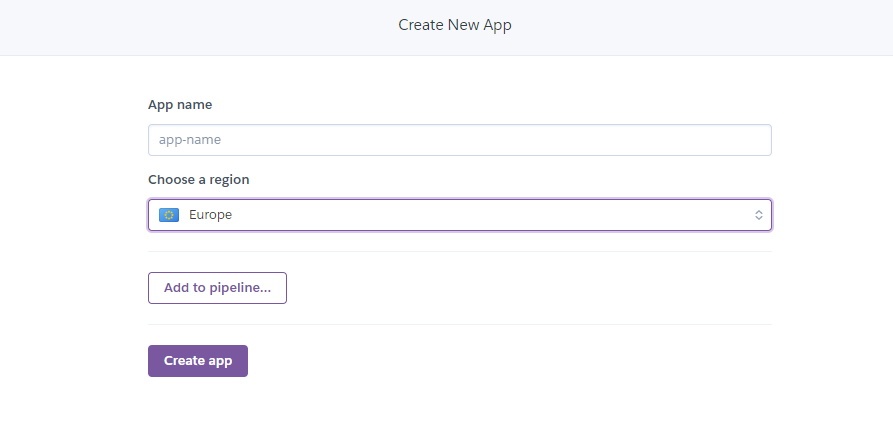
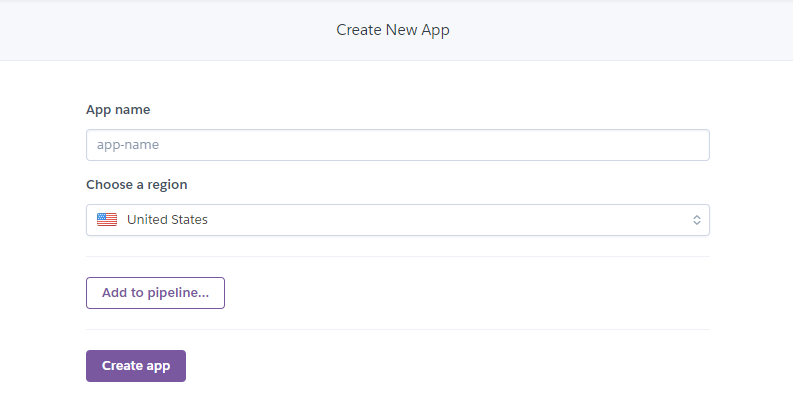
first1

diff --git a/README.md b/README.md
@@ -1,1 +1,99 @@
-# my-first-static-web-app
+# BÀI THU HOẠCH CHƯƠNG 4 - HỌC PHẦN : ĐIỆN TOÁN ĐÁM MÂY VÀ ỨNG DỤNG
+- Sinh viên thực hiện : Mai Thế Long
+- Mã sinh viên : 1821050722
+- Mục tiêu : Tạo ra một tài liệu hướng dẫn triển khai ứng dụng web trên nền tảng dịch vụ điện toán đám mây.
+## Giới thiệu
+**Heroku Web App** là một nền tảng đám mây cho phép các lập trình viên xây dựng, triển khai, quản lý và mở rộng ứng dụng (Paas - Platform as a service). Chúng ta có thể liên kết với tài khoản github để dễ dàng thay đổi thực hiện ngay trong **Github Actions**.
+Trong bài viết này tôi sẽ tạo ra một "tài liệu" hướng dẫn các bạn tiến hành xây dụng một ứng dụng web và triển khai nó theo giải pháp điện toán đám mây **Heroku**.
+
+Đây là ứng dụng mà tôi sẽ xây dựng trong bài viết này.
+
+![Homepage](./homepage.png)
+
+Sau khi xem xong "tài liệu" này thì bạn sẽ thực hiện được một số việc với Heroku.
+
+## Mở đầu
+Heroku cung cấp dịch vụ máy chủ đám mây giúp dễ dàng trong việc deploy ứng dụng. Điều tuyệt vời ở Heroku là trang này bạn có thể sử dụng dịch vụ hoàn toàn miễn phí với các ứng dụng web không yêu cầu phải có tốc độ truy câp dung lương lớn.
+Trong bài viết này chúng ta sẽ cùng làm với nhau 4 việc :
+- Tải Heroku CLI
+- Tạo một dự án trên Heroku
+- Cấu hình Git server repository cho phía local
+- Deploy ứng dụng
+
+## Điều kiện tiên quyết
+- Có tài khoản [GitHub](https://github.com/)
+- Có tài khoản [Heroku](https://dashboard.heroku.com/)
+- Môi trường viết mã [Visual Studio Code](https://code.visualstudio.com/)
+
+## Tải Heroku CLI
+Các bạn truy cập vào đường link [The Heroku CLI](https://devcenter.heroku.com/articles/heroku-cli) để tải Heroku CLI về máy. Chọn các phiên bản phù hợp với thiết bị của bạn. Có rất nhiều phiên bản để các bạn lựa chọn.
+
+![hình ảnh](./a1.png)
+
+
+## Tạo dự án trên Heroku
+Để tạo dự án trên *Heroku*, bạn cần tạo một tài khoản (hoàn toàn miễn phí) sau đó kích hoạt và đăng nhập vào địa chỉ [https://dashboard.heroku.com/](https://dashboard.heroku.com/). Sau khi đăng nhập vào địa chỉ này, bạn sẽ thấy một nút New dùng để tạo một dự án. Click vào sau đó chọn Create New App :
+
+![hình ảnh](./a2.png)
+
+Trong mục *App Name* chọn tên cho ứng dụng nếu bạn để trống thì Heroku sẽ chọn ngẫu nhiên một tên cho ứng dụng của bạn. Tiếp theo có hai lựa chọn để chọn vùng cho server Heroku sẽ host ứng dụng là Mỹ và Châu Âu. Với các ứng dụng ở Việt Nam tôi khuyên các bạn nên chọ khu vực *Europe* để có thể nâng cao tốc độ truy cập. Sau đó các bạn chọn *Create app*.
+
+![hình ảnh](./a3.png)
+
+## Tạo Git Repository trên máy Local
+Đầu tiên các bạn tải cho tôi phần mềm GIT để thuận tiện cho việc deploy ứng dụng web. Đường link để tải tôi sẽ để tại đây [ Click vào đây để download GIT về máy tính](https://git-scm.com/)
+
+Nếu bạn chưa có, hãy đăng nhập vào tài khoản Heroku của bạn và làm theo lời nhắc để tạo kháo công khai SSH mới :
+
+![hình ảnh](./b1.png)
+
+Bây giờ trên máy tính local, chúng ta cần khởi tạo Git local repository (hay local repo). Local repo giống như một cái kho, nơi chứa source code mà bạn sẽ dùng để phát triển ứng dụng. Trên terminal di chuyển tới thư mục ở máy tính của bạn và chạy câu lệnh sau :
+
+![hình ảnh](./b2.png)
+
+Câu lệnh này dùng để khởi tạo một dự án Git ở trên máy tính local. Tiếp theo chạy câu lệnh sau để xem trạng thái (status) của các file trên local repo này :
+
+![hình ảnh](./b3.png)
+Bạn sẽ thấy kết quả như sau :
+
+![hình ảnh](./a4.png)
+png
+Tiếp theo chạy câu lệnh sau để thêm tất cả các file có trong thư mục dự án vào Git :
+
+![hình ảnh](./b4.png)
+
+Chạy *git status* một lần nữa để kiểm tra trạng thái của các file. Lúc này bạn sẽ thấy Git đánh dấu các file vừa được thêm bằng màu khác với trước đó.
+Cuối cùng, chúng ta hãy tạo một commit đầu tiên sử dụng câu lệnh :
+
+![hình ảnh](./b5.png)
+
+Giải thích câu lệnh này, -m được sử dụng để tạo message cho commit. Message này thường là nội dung tóm tắt mô tả khi commit thay đổi những gì trong source code. Bạn có thể đặt bất cứ tên nào cũng được. Hãy đặt những massage đơn giản và dễ nhớ nhé.
+
+## Deploy ứng dụng
+
+Có thể có nhiều cách để Deploy ứng dụng lên Heroku nhưng có hai cách thông dụng và dễ thực hiện đó là sử dụng Heroku CLI như tôi vừa trình bày ở bên trên và một cách nữa là bạn có thể kết nối với Github rồi Deploy ứng dung web lên Heroku. Có một lời khuyên cho bạn là khi bạn mới bắt đầu triển khai ứng dụng lên dịch vụ điện toán đám mây - ở đây là Heroku thì bạn nên dùng cách thủ công đó là sử dụng Heroku CLI. Sau khi bạn đã Push được ứng dụng lên một cách thuận lợi thì từ những lầ sau bạn hãy thực hiện cách số hai là deploy thông qua liên kết với Github để đỡ nảy sinh nhiều bugs (lỗi thường gặp phải là sai nhánh Github).
+
+Chúng ta bắt đầu với cách deploy khi kết nối với Github bạn sẽ chọn kho lưu trữ (repositories) chứa source code mà bạn đã push lên Github rồi kết nối chúng với nhau :
+
+![hình ảnh](./i6.png)
+
+ Ở đây tôi đã kết nối thành công.
+
+Tiếp đến bạn cần chọn nhánh của Github để deploy sau đó chọn **Deploy Branch** để đưa ứng dụng lên Heroku.
+
+![hình ảnh](./i8.png)
+
+Sau khi push thành công bạn có thể xem. Click vào **View** sẽ đưa bạn đến trang ứng dụng web mà bạn đã triển khai thành công trên Heroku. 
+
+Chúng ta chuyển sang trang Github, sau khi đã triển khai thành công bạn có thể mở ngay tại đây. Chọn vào kho lưu trữ mà bạn đã kết nối với Heroku -> vào phần code sẽ có mục **Environments** ở dưới cùng phía bên phải màn hình.
+
+![hình ảnh](./i9.png)
+
+Click vào mục này bạn sẽ được đưa sang một trang mới chọn **View deployment** để mở ứng dụng bạn đã triểm khai thành công trên Heroku.
+
+![hình ảnh](./i10.png)
+
+
+
+
+**Cảm ơn các bạn đã theo dõi tài liệu của tôi. Chúc các bạn thành công !!!**
